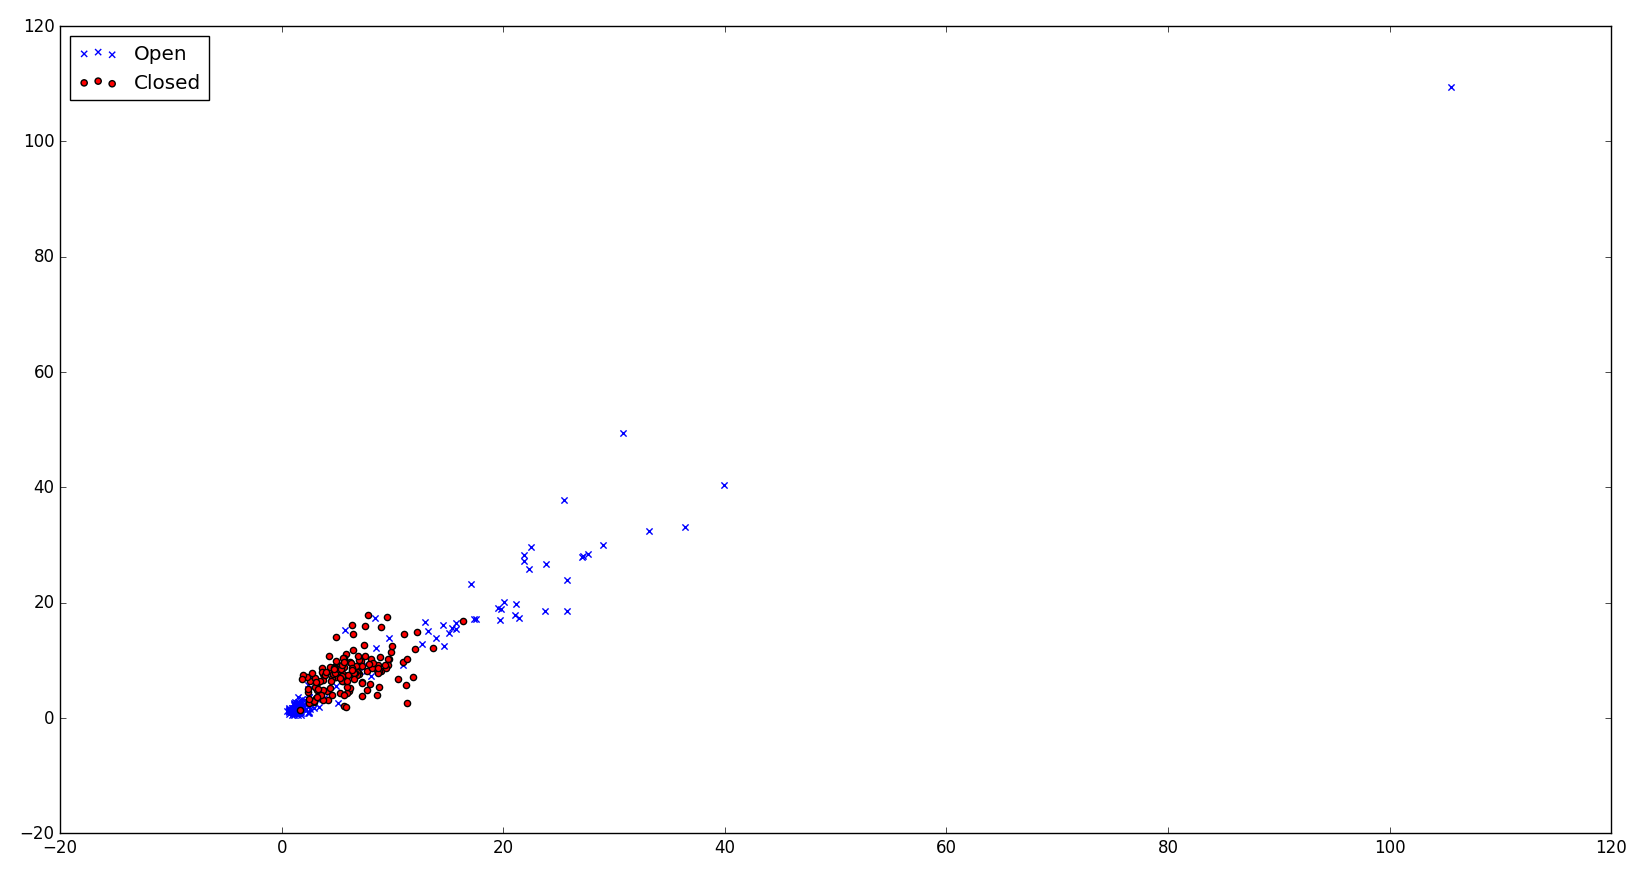
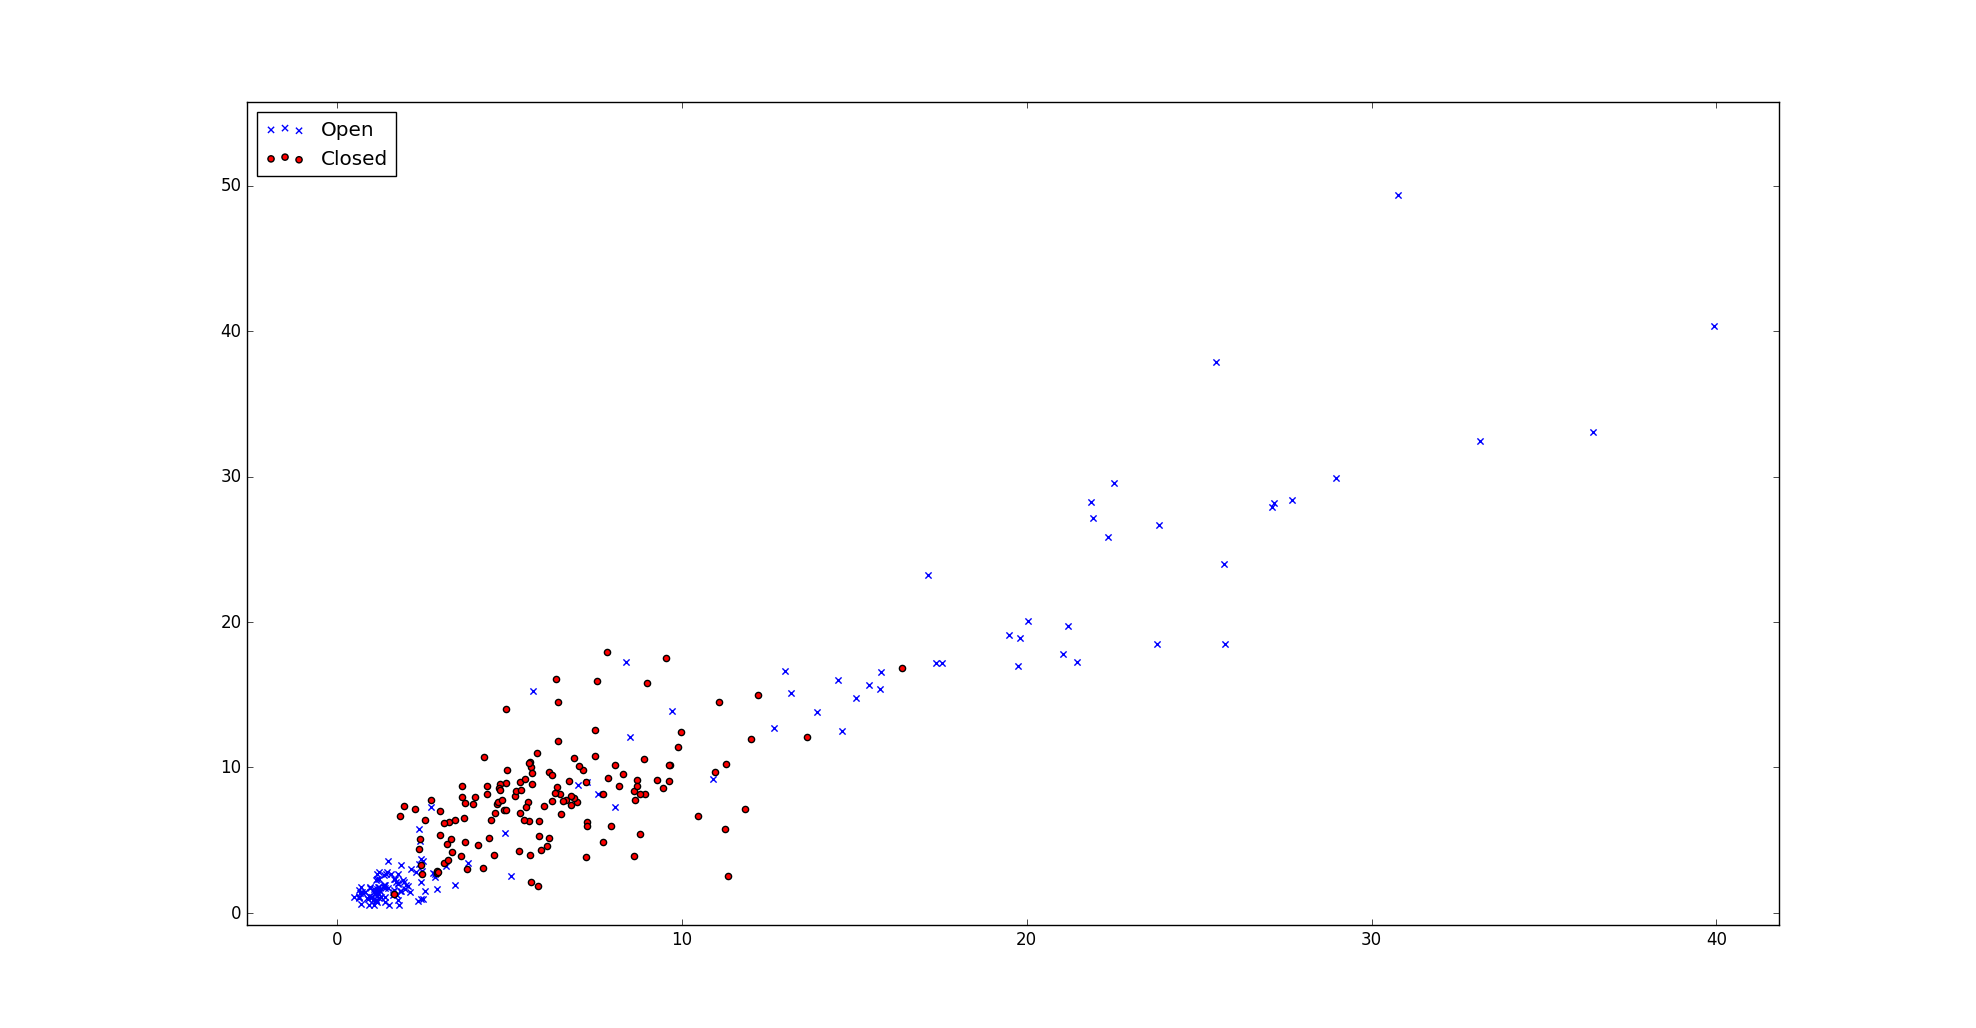
Fixed EMGPlotter. Replotted emg graphs

diff --git a/Python/EMGPlotter.py b/Python/EMGPlotter.py
@@ -3,7 +3,7 @@ import numpy as np
 import matplotlib.pyplot as plt
 
 def main():
-  with open('/Users/hobbit/projects/ProyectoFinal/DataSets/EMG/marcos-1.emg.csv', 'r') as csvfile:
+  with open('/Users/hobbit/projects/ProyectoFinal/DataSets/EMG/fede-2.emg.csv', 'r') as csvfile:
     reader = csv.reader(csvfile)
     lines = []
     for row in reader:
@@ -41,8 +41,8 @@ def main():
   fig = plt.figure()
   ax1 = fig.add_subplot(111)
 
-  ax1.scatter(x_o, y_o, c='b', marker="x", label='Relaxed')
-  ax1.scatter(x_c, y_c, c='r', marker="o", label='Tense')
+  ax1.scatter(x_o, y_o, c='b', marker="x", label='Tense')
+  ax1.scatter(x_c, y_c, c='r', marker="o", label='Relaxed')
   plt.legend(loc='upper left')
   plt.show()
 
